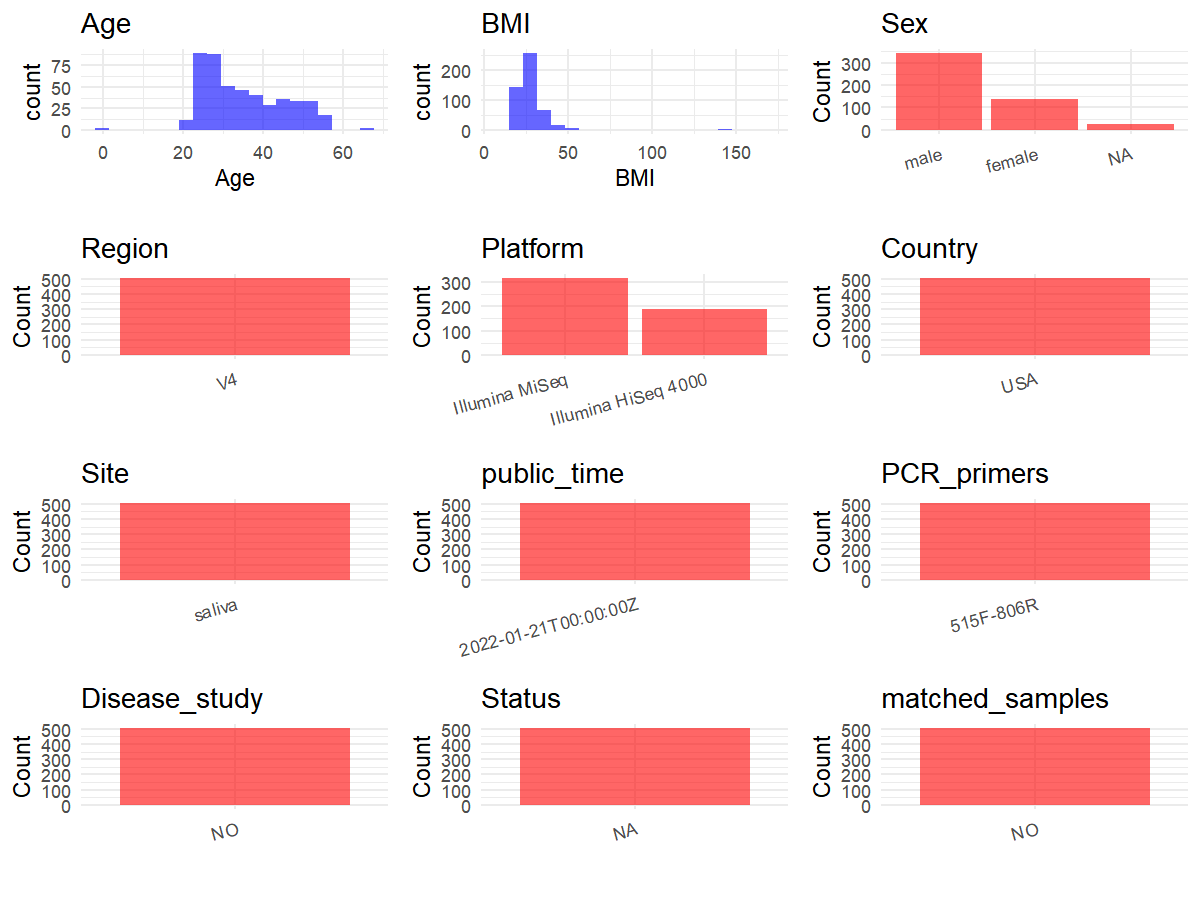
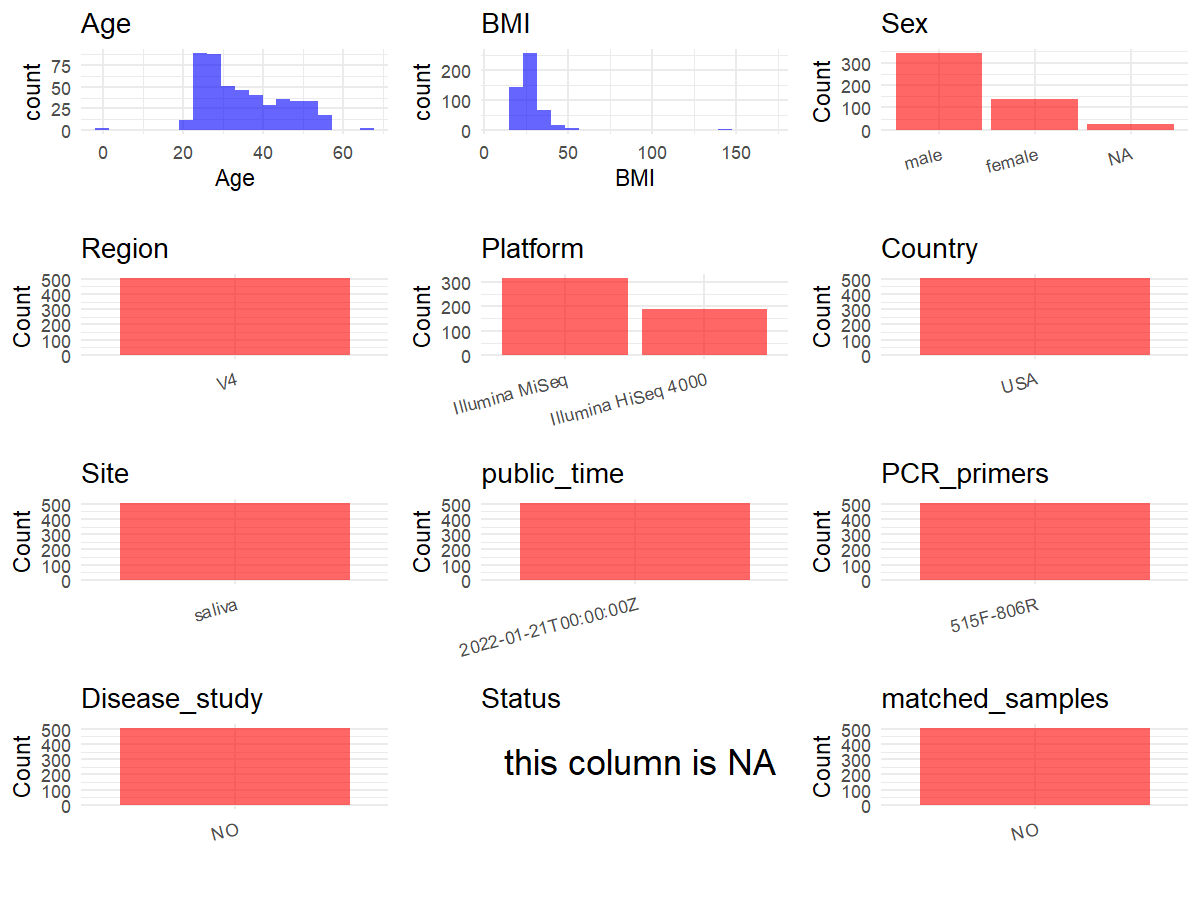
add metadata

Changed region(s): [[0.3392, 0.8089, 0.6475, 0.9333]]

diff --git a/data/projects/PRJEB29169/metadata_curation.md b/data/projects/PRJEB29169/metadata_curation.md
@@ -307,6 +307,7 @@ metadata <- data.frame(
   Country = initial_meta$geo_loc_name_country,
   Site = initial_meta$env_material,
   public_time = initial_meta$ReleaseDate,
+  Status = NA,
   stringsAsFactors = FALSE
 )
 ```
@@ -322,7 +323,7 @@ metadata$PCR_primers <- "515F-806R"
 metadata$title <- "Establishing microbial composition measurement standards with reference frames"
 metadata$Disease_study <- "NO"
 # Assign disease status based on sample_name patterns
-metadata$Status<-"NA"
+#metadata$Status<-"NA"
 
 #extract subject id by remove prefix of sample_name
 
